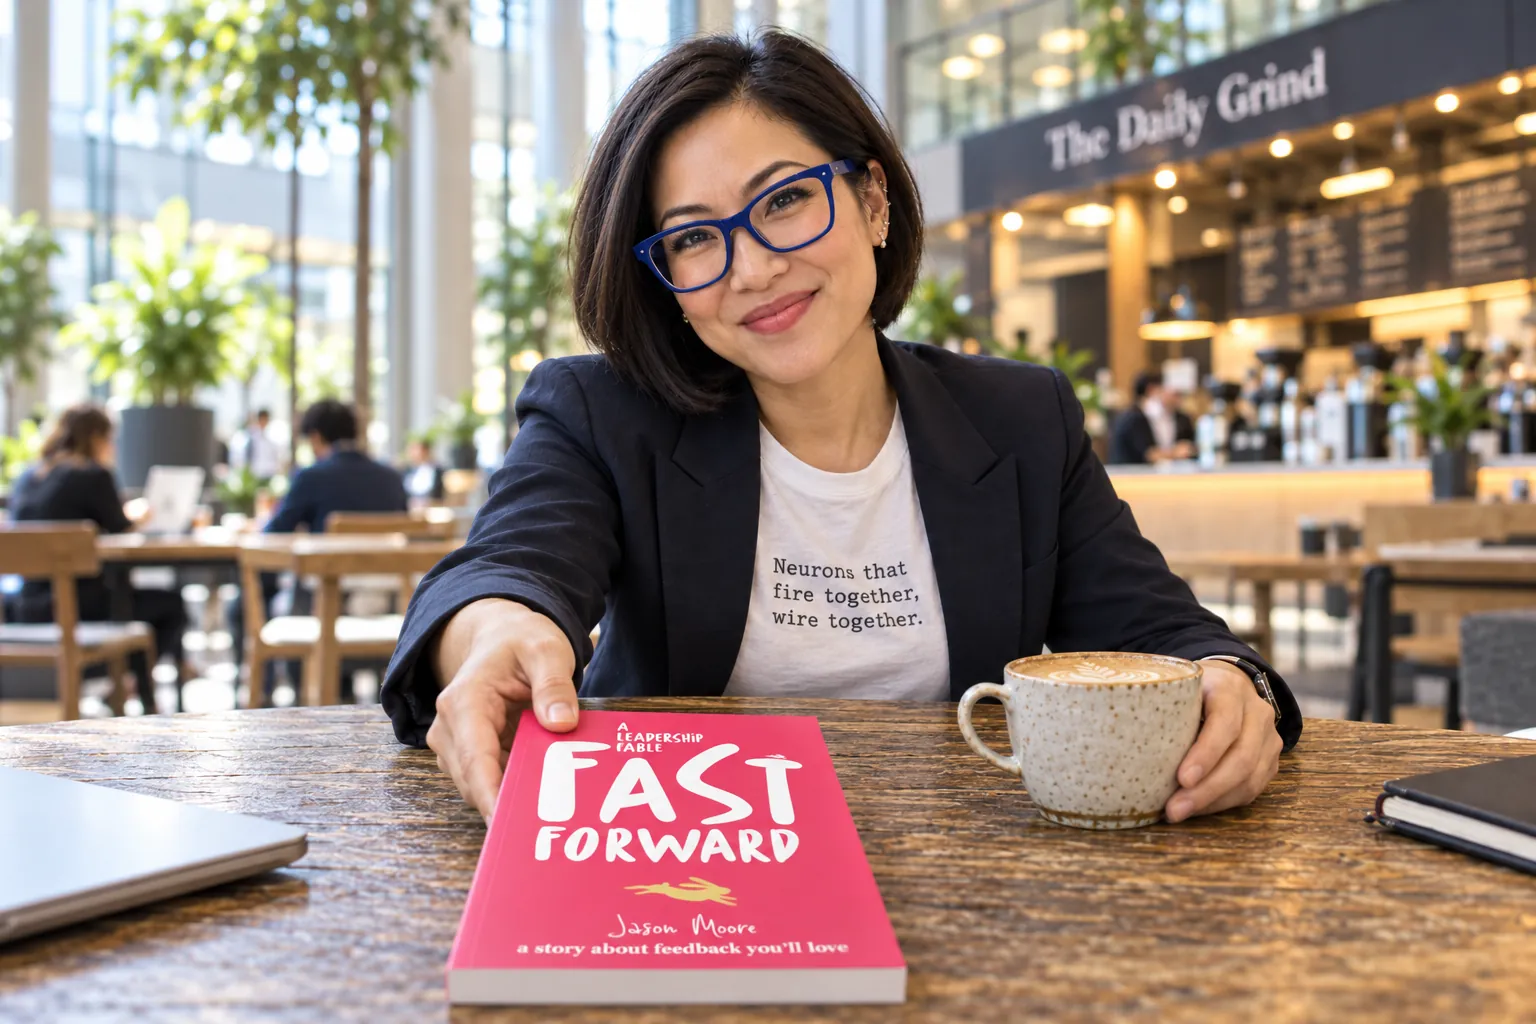
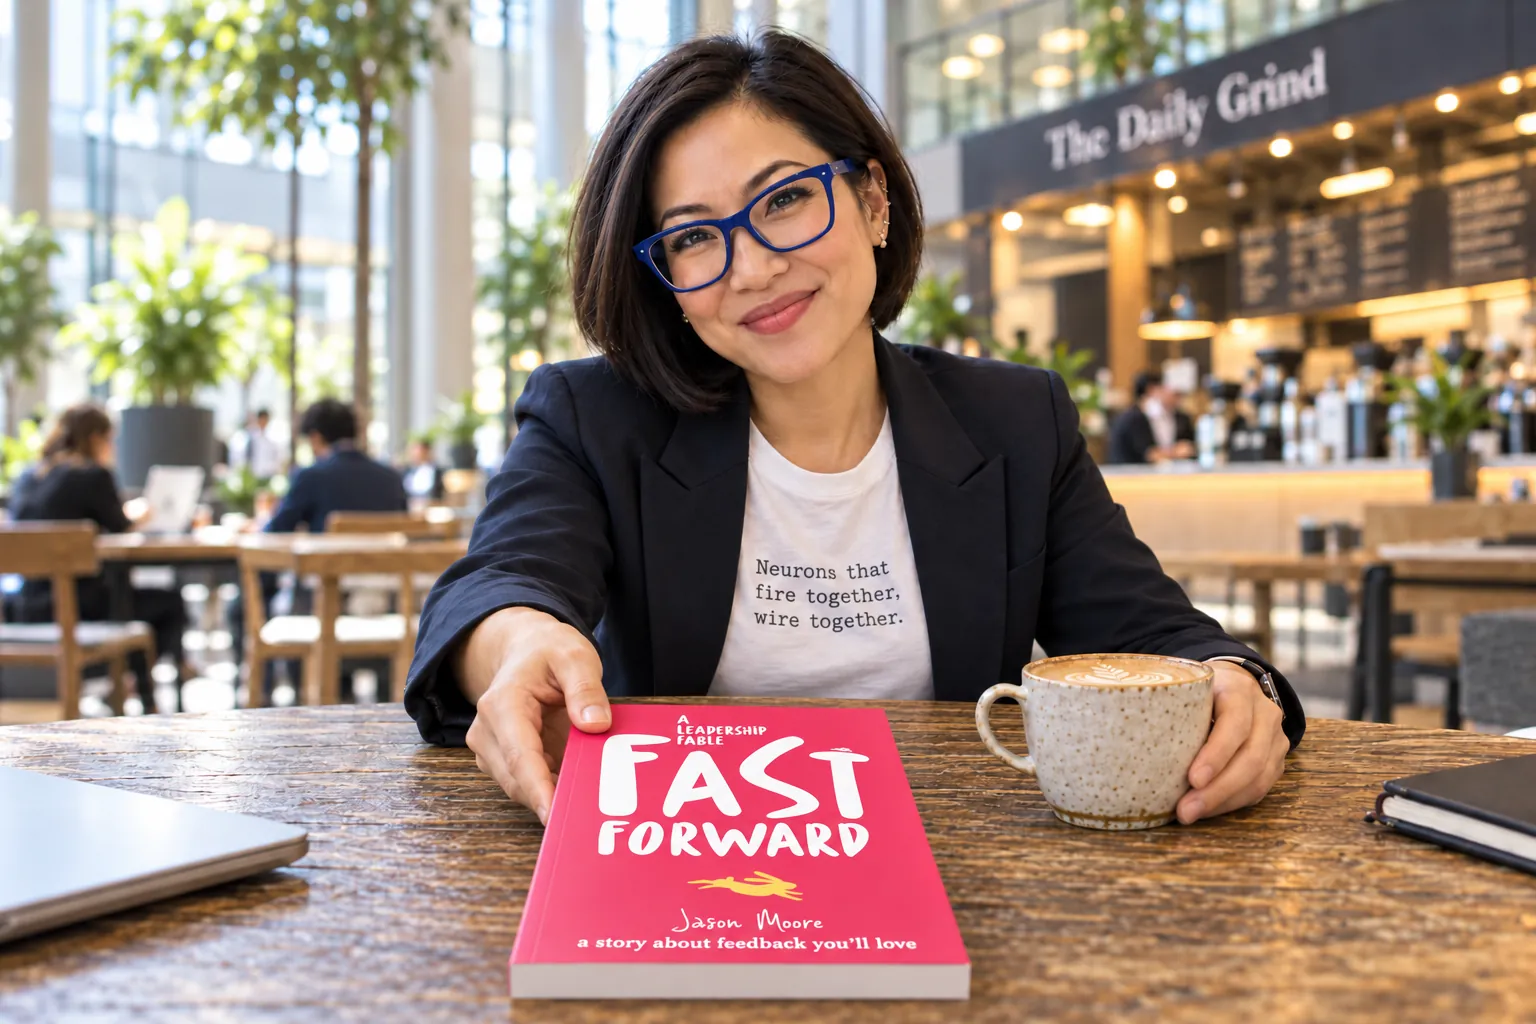
New scene image with centred book; adjust crops
Claude-Session: https://claude.ai/code/session_01Xc4SHAXTrCnHM9nqExVRH4

diff --git a/index.html b/index.html
@@ -87,7 +87,7 @@
   /* Right: scene image */
   .col-right{flex:1 1 auto;display:flex;flex-direction:column;min-width:0}
   .scene{flex:1 1 auto;min-height:420px;position:relative;overflow:hidden;background:#eee}
-  .scene img{position:absolute;inset:0;width:100%;height:100%;object-fit:cover;object-position:52% 50%}
+  .scene img{position:absolute;inset:0;width:100%;height:100%;object-fit:cover;object-position:48% 50%}
 
   /* 5-day strip */
   .days{border-top:1px solid var(--line);padding:22px 38px 26px;background:#FFFBFC}
@@ -145,7 +145,7 @@
     .card-main{flex-direction:column}
     .col-left{flex:none;padding:30px 24px 26px}
     .scene{flex:none;min-height:0;aspect-ratio:4/3}
-    .scene img{object-position:50% 40%}
+    .scene img{object-position:50% 85%}
     .days{padding:22px 24px 24px}
     .days ol{grid-template-columns:1fr;gap:8px}
     .days li{display:flex;gap:12px;align-items:baseline;border-top:1px solid var(--line);border-left:4px solid var(--pink);padding:10px 14px}
